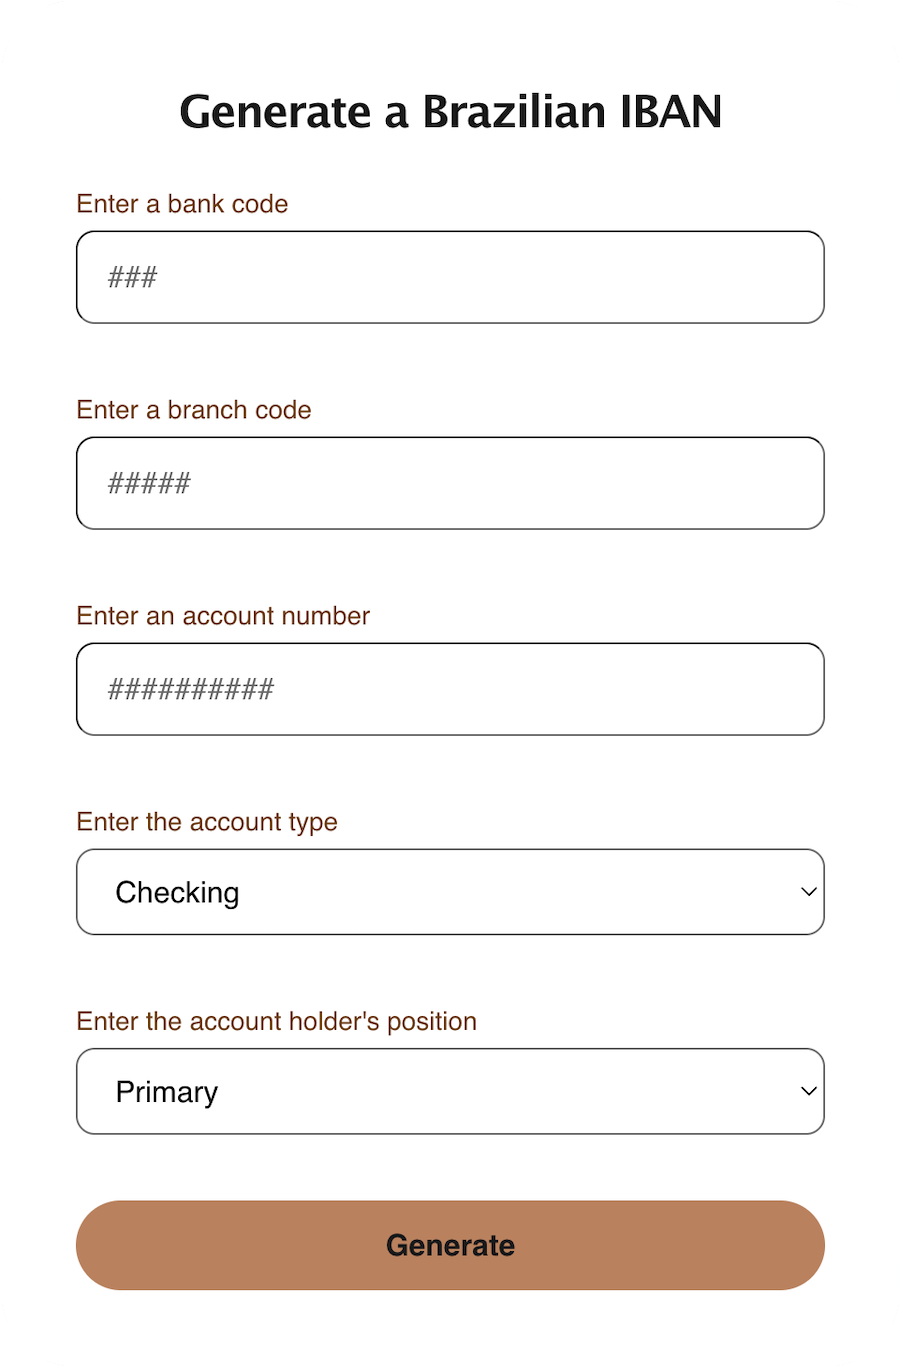
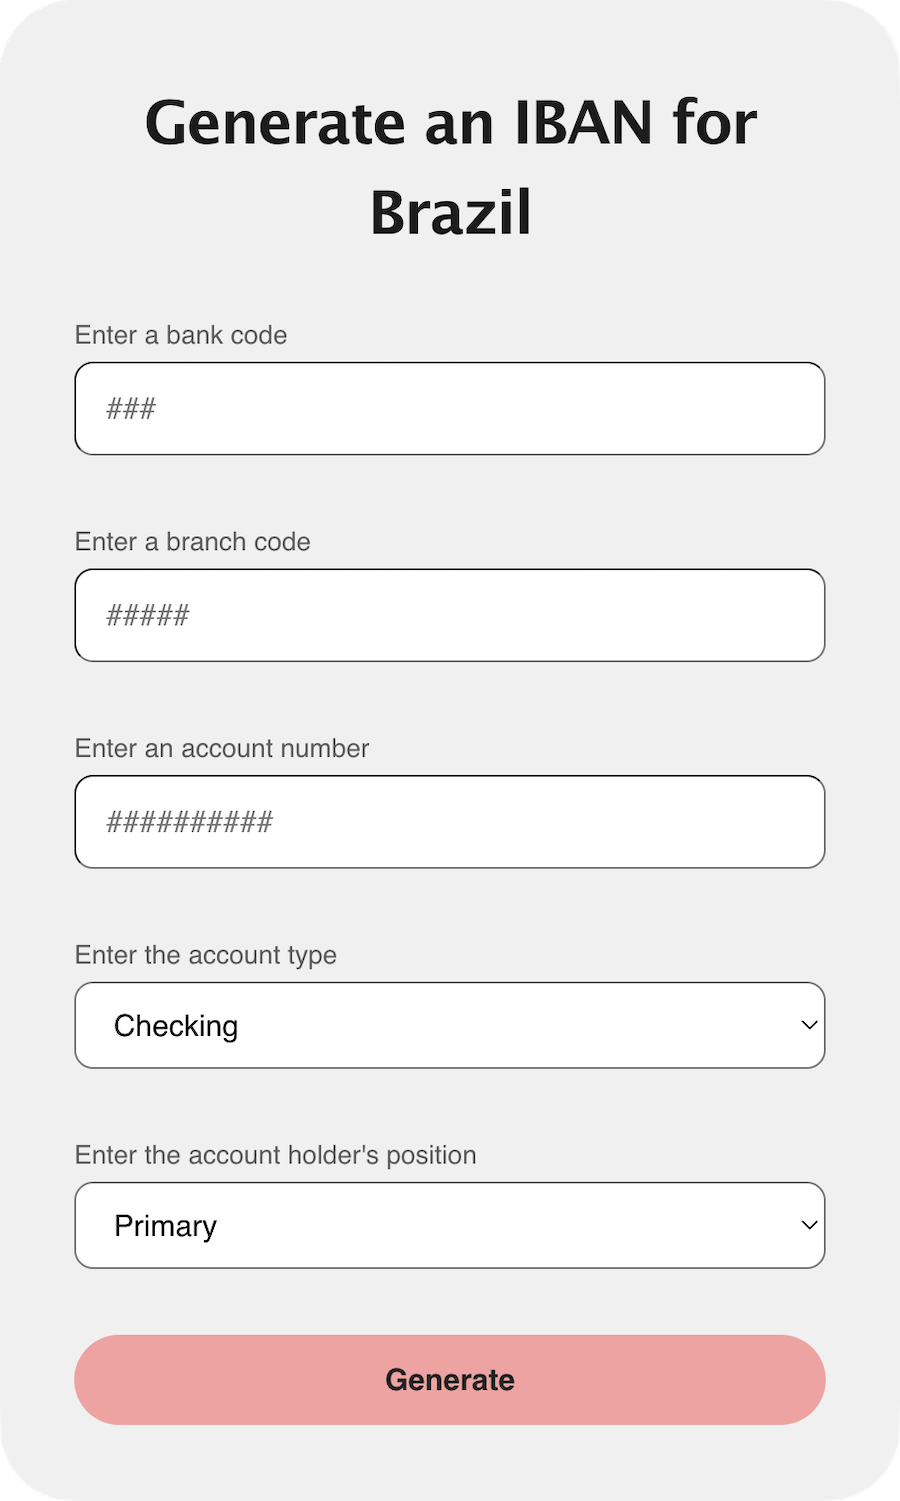
Screenshot new forms from reskin (#3)

diff --git a/br-iban.html b/br-iban.html
@@ -58,7 +58,7 @@ how_to:
   enter_bank_details: "Enter your bank code, branch code, account number, account type, and account holder's position in the respective fields of the form."
   form_image:
     link: '/assets/images/forms/br-iban.png'
-    height: 1368
+    height: 1501
     width: 900
 
 faq_questions:

diff --git a/mx-clabe.html b/mx-clabe.html
@@ -41,7 +41,7 @@ fields:
 how_to:
   enter_bank_details: 'Enter your bank code, branch code, and account number in the respective fields of the form.'
   form_image:
-    height: 968
+    height: 1101
     width: 900
     link: '/assets/images/forms/mx-clabe.png'
 
